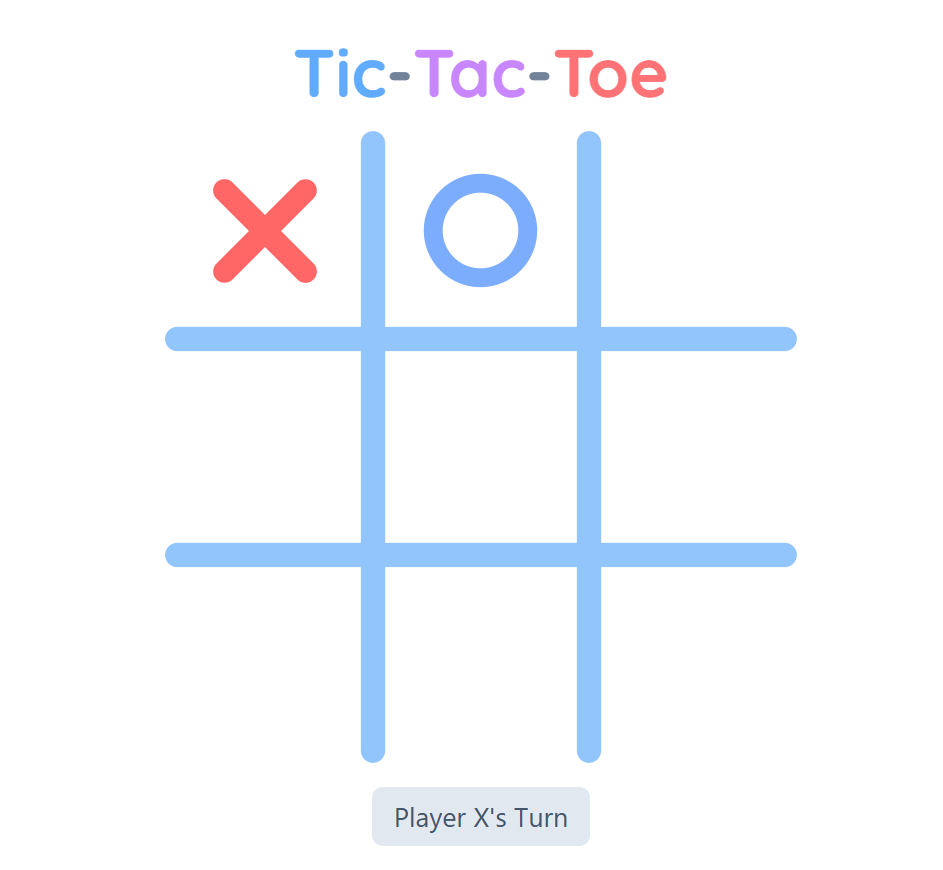
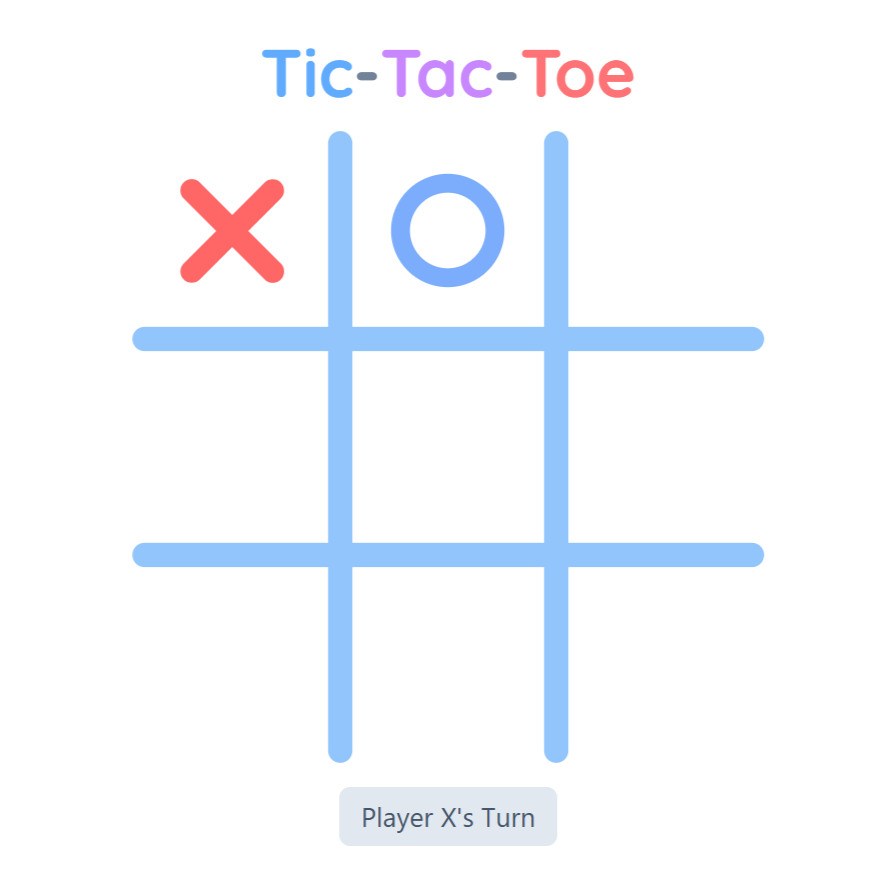
Wrapped

diff --git a/tic-tac-toe.js b/tic-tac-toe.js
@@ -40,7 +40,7 @@ cells.forEach((cell, index) => {
     board[index] = isPlayerX ? "X" : "O"
     if (isPlayerX) {
       innerdiv.innerHTML = drawX()
-      message.innerText = "Player 0's Turn"
+      message.innerText = "Player O's Turn"
     } else {
       innerdiv.innerHTML = drawO()
       message.innerText = "Player X's Turn"
@@ -57,22 +57,31 @@ function checkWinning() {
     const b = combo[1]
     const c = combo[2]
     if (board[a] === board[b] && board[b] === board[c] && board[a] !== "") {
-      message.innerText = `Player ${board[a]} Won`
+      message.innerText = `Player ${board[a]} Won!`
       gameOver = true
       document.querySelector('.container').classList.add('gameover')
       message.classList.replace('bg-slate-200', 'bg-green-200')
-      setTimeout(() => {
-        message.innerText = "Restart Game"
-        message.classList.replace('bg-green-200', 'bg-purple-200')
-        message.classList.add('cursor-pointer', 'pulse')
-        message.addEventListener('click', () => {
-          if (gameOver) {
-            resetBoard()
-          }
-        })
-      }, 1000)
       drawWinningLine(combo)
+      combo.forEach(index => {
+        cells[index].querySelector('.inner').classList.add('pulse')
+      })
+      setTimeout(() => {
+        alert(`Player ${board[a]} Won!`)
+        resetBoard()
+      }, 1200)
+      return
     }
+  }
+
+  if (board.every(cell => cell !== "")) {
+    message.innerText = "It's a Tie!"
+    gameOver = true
+    document.querySelector('.container').classList.add('gameover')
+    message.classList.replace('bg-slate-200', 'bg-yellow-200')
+    setTimeout(() => {
+      alert("It's a Tie!")
+      resetBoard()
+    }, 300)
   }
 }
 function getCoords(index) {
@@ -107,17 +116,15 @@ function resetBoard() {
   cells.forEach(cell => {
     const innerdiv = cell.querySelector('.inner')
     innerdiv.innerHTML = ""
+    innerdiv.classList.remove('pulse')
   })
   const winLine = document.getElementById('winLine')
   if (winLine) {
     winLine.remove()
   }
-  document.getElementById('lines').querySelectorAll('line:not(#winLineTemplate)')
   message.innerText = "Player X's Turn"
 
   document.querySelector('.container').classList.remove('gameover')
-  message.classList.remove('cursor-pointer', 'pulse')
-  message.classList.replace('bg-purple-200', 'bg-slate-200')
-  message.innerText = "Player X's Turn"
-
+  message.classList.remove('bg-green-200', 'bg-yellow-200')
+  message.classList.add('bg-slate-200')
 }

diff --git a/generate.html b/generate.html
@@ -26,19 +26,19 @@
 </head>
 
 <body>
-  <div class="h-screen flex flex-row overflow-hidden">
-    <div class="flex flex-col justify-center items-center w-1/2">
-      <h1 class="text-2xl ml-[-45px] text-slate-800 font-medium mb-1 text-center self-stretch">Random Color Palette
-        Generator</h1>
-      <label class="ml-[-45px] mb-8 text-sm text-slate-500">generate random palette for new ideas</label>
-      <div class="flex flex-row gap-4 items-center">
+  <div class="min-h-screen flex flex-col md:flex-row md:h-screen overflow-y-auto md:overflow-hidden">
+    <div class="flex flex-col justify-center items-center w-full md:w-1/2 px-4 py-8 md:py-0">
+      <h1 class="text-lg md:text-2xl md:ml-[-45px] text-slate-800 font-medium mb-1 text-center self-stretch">Random
+        Color Palette Generator</h1>
+      <label class="md:ml-[-45px] mb-8 text-sm text-slate-500 text-center">generate random palette for new ideas</label>
+      <div class="flex flex-col items-center gap-4">
 
         <div class="flex flex-col items-center">
           <div id="square"
-            class="w-[300px] mb-2 aspect-square bg-slate-100 border-2 rounded border-slate-400 flex justify-center items-center">
+            class="w-[min(300px,60vw)] mb-2 aspect-square bg-slate-100 border-2 rounded border-slate-400 flex justify-center items-center text-center px-2">
             Hey
           </div>
-          <div id="circles" class="flex gap-4"></div>
+          <div id="circles" class="flex gap-4 flex-wrap justify-center"></div>
           <label class="mt-2">Click to copy hex code</label>
           <button onclick="savePalette()"
             class="mt-3 mb-3 bg-slate-200 px-3 py-2 rounded-md hover:scale-110 transition-all duration-200 active:scale-100">
@@ -46,14 +46,14 @@
           </button>
         </div>
 
-        <div class="flex flex-col gap-4">
+        <div class="flex flex-row gap-4">
           <div class="relative group inline-flex" onclick="newPalette()">
             <div
               class="text-slate-600 bg-slate-100 p-2 rounded-md cursor-pointer inline-flex hover:scale-110 active:scale-95 transition-all duration-200 active:bg-blue-200 active:text-blue-500">
               <i data-lucide="refresh-cw"></i>
             </div>
             <span
-              class="absolute left-full top-1/2 -translate-y-1/2 ml-2 bg-gray-800 text-white text-xs px-2 py-1 rounded opacity-0 group-hover:opacity-100 transition-all whitespace-nowrap">
+              class="absolute bottom-full left-1/2 -translate-x-1/2 mb-2 bg-gray-800 text-white text-xs px-2 py-1 rounded opacity-0 group-hover:opacity-100 transition-all whitespace-nowrap">
               Refresh palette
             </span>
           </div>
@@ -63,7 +63,7 @@
               <i data-lucide="pin"></i>
             </div>
             <span
-              class="absolute left-full top-1/2 -translate-y-1/2 ml-2 bg-gray-800 text-white text-xs px-2 py-1 rounded opacity-0 group-hover:opacity-100 transition-all whitespace-nowrap">
+              class="absolute bottom-full left-1/2 -translate-x-1/2 mb-2 bg-gray-800 text-white text-xs px-2 py-1 rounded opacity-0 group-hover:opacity-100 transition-all whitespace-nowrap">
               Pin color
             </span>
           </div>
@@ -73,7 +73,7 @@
               <i data-lucide="arrow-right-left"></i>
             </div>
             <span
-              class="absolute left-full top-1/2 -translate-y-1/2 ml-2 bg-gray-800 text-white text-xs px-2 py-1 rounded opacity-0 group-hover:opacity-100 transition-all whitespace-nowrap">
+              class="absolute bottom-full left-1/2 -translate-x-1/2 mb-2 bg-gray-800 text-white text-xs px-2 py-1 rounded opacity-0 group-hover:opacity-100 transition-all whitespace-nowrap">
               Change a color
             </span>
           </div>
@@ -82,9 +82,9 @@
       </div>
     </div>
 
-    <div class="w-1/2 border-l-3 border-slate-400">
+    <div class="w-full md:w-1/2 border-t-3 md:border-t-0 md:border-l-3 border-slate-400">
       <label class="block w-full text-center p-6 text-xl font-medium">Your Saved Palettes will appear here</label>
-      <div id="palettes" class="p-4 flex gap-8 flex-wrap">
+      <div id="palettes" class="p-4 flex gap-8 flex-wrap justify-center md:justify-start">
       </div>
     </div>
   </div>

diff --git a/flipcards.html b/flipcards.html
@@ -22,6 +22,14 @@
       padding: 20px;
       max-width: 900px;
       margin: 0 auto;
+      box-sizing: border-box;
+    }
+
+    @media (max-width: 400px) {
+      #card-container {
+        gap: 10px;
+        padding: 12px;
+      }
     }
 
     .cardinner {
@@ -119,16 +127,17 @@
 </head>
 
 <body>
-  <div class="relative min-h-screen overflow-y-auto">
-    <div class="absolute top-10 left-18 z-10">
+  <div
+    class="relative min-h-screen overflow-y-auto flex flex-col items-center gap-6 px-4 py-6 sm:block sm:px-0 sm:py-0">
+    <div class="sm:absolute sm:top-10 sm:left-6 md:left-18 sm:z-10">
       <div
-        class="p-8 bg-sky-100 border-2 border-sky-300 rounded-md font-medium text-slate-800 flex flex-col text-center">
-        <p class="mb-2">Total Flips</p>
-        <p id="counter" class="text-xl text-slate-600">0</p>
+        class="p-4 sm:p-8 bg-sky-100 border-2 border-sky-300 rounded-md font-medium text-slate-800 flex flex-col text-center">
+        <p class="mb-2 text-sm sm:text-base">Total Flips</p>
+        <p id="counter" class="text-lg sm:text-xl text-slate-600">0</p>
       </div>
 
     </div>
-    <div class="relative flex justify-center" id="card-container">
+    <div class="relative flex justify-center w-full" id="card-container">
     </div>
   </div>
   <script src="./flipcards.js"></script>

diff --git a/quiz.html b/quiz.html
@@ -9,7 +9,7 @@
   <script src="https://unpkg.com/lucide@latest"></script>
   <style>
     body {
-      background: linear-gradient(135deg, #eef2ff 0%, #f0f9ff 50%, #f0fdf4 100%);
+      background-color: #EEF4FF;
     }
 
     .btn {
@@ -81,8 +81,6 @@
     }
 
     .mascot {
-      width: 160px;
-      height: 160px;
       border-radius: 24px;
       background-size: cover;
       background-position: center;
@@ -128,22 +126,22 @@
   </style>
 </head>
 
-<body class="h-screen overflow-hidden w-full flex justify-center">
+<body class="h-screen overflow-hidden w-full flex justify-center items-center md:items-stretch px-4 md:px-0">
   <div id="card"
-    class="w-4xl my-15 bg-white flex flex-col justify-between rounded-4xl card-shadow border border-slate-100 px-12 py-10">
+    class="w-full max-w-4xl max-h-full my-0 md:my-15 bg-white flex flex-col justify-between rounded-2xl md:rounded-4xl card-shadow border border-slate-100 px-5 py-5 md:px-12 md:py-10">
     <div class="w-full">
       <div class="progress-track">
         <div class="progress-fill" id="progressFill"></div>
       </div>
     </div>
-    <div class="w-full flex items-center gap-10">
-      <div class="mascot mascot-normal" id="mascot"></div>
-      <div class="flex-1 text-2xl font-bold text-slate-800 text-left" id="question"></div>
+    <div class="w-full flex items-center gap-3 md:gap-10">
+      <div class="mascot mascot-normal w-12 h-12 md:w-40 md:h-40" id="mascot"></div>
+      <div class="flex-1 text-base md:text-2xl font-bold text-slate-800 text-left" id="question"></div>
     </div>
     <div class="h-6 flex items-center justify-center w-full">
       <p id="message" class="font-semibold"></p>
     </div>
-    <div class="w-full grid grid-cols-4 gap-4" id="buttons">
+    <div class="w-full grid grid-cols-2 md:grid-cols-4 gap-3 md:gap-4" id="buttons">
 
     </div>
   </div>

diff --git a/tic-tac-toe.html b/tic-tac-toe.html
@@ -72,6 +72,18 @@
     .container.gameover .grid:hover .inner {
       background-color: transparent;
     }
+
+    #winLine {
+      stroke-dasharray: 700;
+      stroke-dashoffset: 700;
+      animation: drawLine 0.5s ease forwards;
+    }
+
+    @keyframes drawLine {
+      to {
+        stroke-dashoffset: 0;
+      }
+    }
   </style>
 </head>
 

diff --git a/generate.js b/generate.js
@@ -1,4 +1,4 @@
- let isPinned = false
+let isPinned = false
     let isSwiched = false
     const pinned = []
 

diff --git a/quiz.js b/quiz.js
@@ -129,7 +129,7 @@ function renderCompletion() {
 
   const restartButton = document.createElement('button')
   restartButton.innerText = "Play Again"
-  restartButton.classList.add('btn', 'hover:scale-110', 'transition-all', 'duration-200', 'cursor-pointer', 'col-span-4')
+  restartButton.classList.add('btn', 'hover:scale-110', 'transition-all', 'duration-200', 'cursor-pointer', 'col-span-2', 'md:col-span-4')
   restartButton.addEventListener('click', () => {
     currentIndex = 0
     renderQuestion()